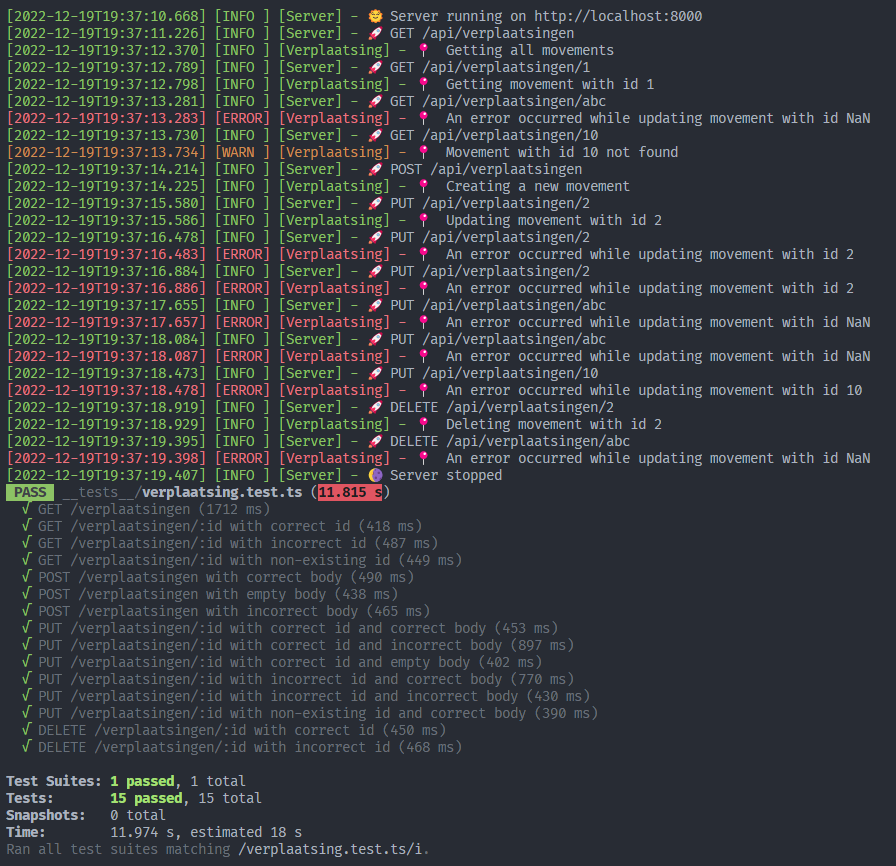
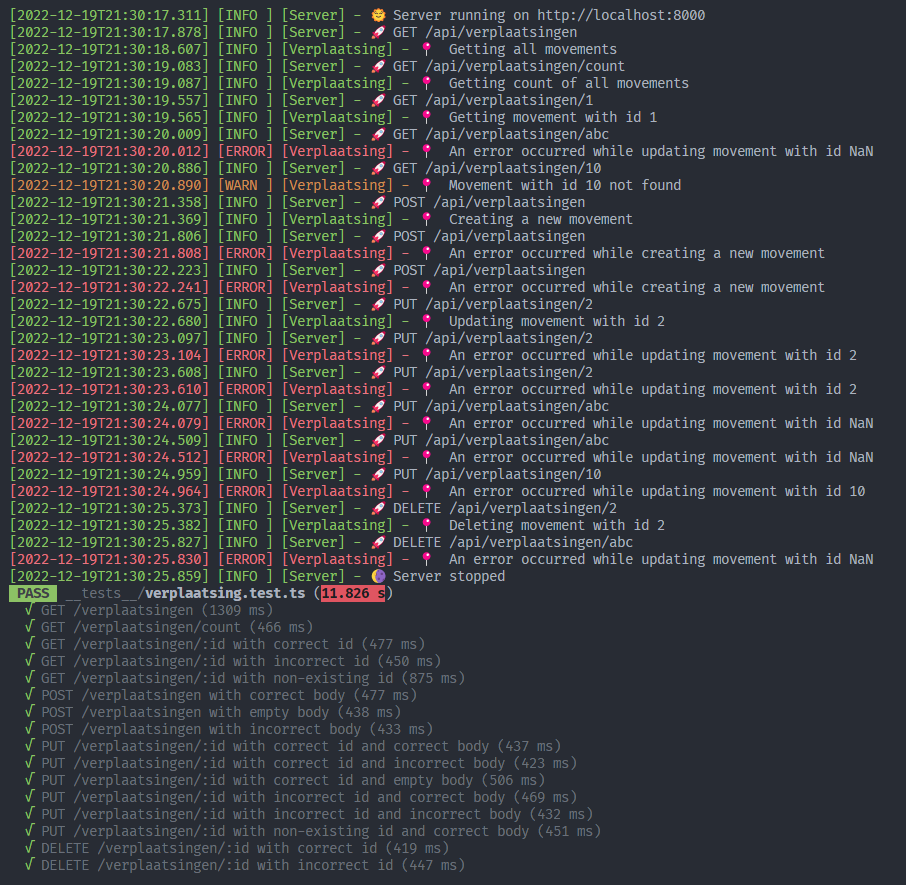
test /count for all tables

Changed region(s): [[0.0, 0.0, 0.9688, 0.9977]]

diff --git a/__tests__/reiziger.test.ts b/__tests__/reiziger.test.ts
@@ -41,6 +41,15 @@ it("GET /reizigers", async () => {
     ]});
 });
 
+it("GET /reizigers/count", async() => {
+  const app = (await server).getApp();
+  const token = await fetchAccessToken();
+
+  const response = await request(app).get("/api/reizigers/count").set("Authorization", `Bearer ${token}`);
+  expect(response.status).toEqual(200);
+  expect(response.body).toEqual("Count of all travellers: 1");
+});
+
 
 it("GET /reizigers/:id with correct id", async () => {
   const app = (await server).getApp();
@@ -67,6 +76,36 @@ it("GET /reizigers/:id with non-existing id", async () => {
   const token = await fetchAccessToken();
 
   const response = await request(app).get("/api/reizigers/10").set("Authorization", `Bearer ${token}`);
+  expect(response.status).toEqual(404);
+  expect(response.body).toEqual("Reiziger niet gevonden");
+});
+
+
+it("GET /reizigers/auth0/:id with correct id", async () => {
+  const app = (await server).getApp();
+  const token = await fetchAccessToken();
+
+  const response = await request(app).get("/api/reizigers/auth0/sJUibowqneIEBIvxyeLQd869uivdTHuP@clients").set("Authorization", `Bearer ${token}`);
+  expect(response.status).toEqual(200);
+  expect(response.body).toEqual([{"auth0id": "sJUibowqneIEBIvxyeLQd869uivdTHuP@clients","geboortedatum": "2003-12-15","huisnummer": "5","id": 1,"naam": "De Waegeneer","stad": "Aalst","straat": "Hugo Lefèvrestraat","voornaam": "Robin",}]);
+});
+
+
+it("GET /reizigers/auth0/:id with incorrect id", async () => {
+  const app = (await server).getApp();
+  const token = await fetchAccessToken();
+
+  const response = await request(app).get("/api/reizigers/auth0/abc").set("Authorization", `Bearer ${token}`);
+  expect(response.status).toEqual(400);
+  expect(response.body).toEqual({"errors": [{"location": "params", "msg": "Id must be a string between 5 and 255 characters", "param": "id", "value": "abc",},],});
+});
+
+
+it("GET /reizigers/auth0/:id with non-existing id", async () => {
+  const app = (await server).getApp();
+  const token = await fetchAccessToken();
+
+  const response = await request(app).get("/api/reizigers/auth0/sJUibowqneIEBIvxyeLQd869uivdTHuP@client").set("Authorization", `Bearer ${token}`);
   expect(response.status).toEqual(404);
   expect(response.body).toEqual("Reiziger niet gevonden");
 });

diff --git a/src/rest/bestemming.ts b/src/rest/bestemming.ts
@@ -124,28 +124,27 @@ body("land").isString().isLength({ min: 1, max: 255 }).withMessage("Land must be
 body("stad").isString().isLength({ min: 1, max: 255 }).withMessage("Stad must be between 1 and 255 characters"),
 body("postcode").isString().isLength({ min: 1, max: 10 }).withMessage("Postcode must be between 1 and 10 characters"),
 async (req: Request, res: Response) => {
-    const errors = validationResult(req);
-    if (!errors.isEmpty()) {
+  const errors = validationResult(req);
+  if (!errors.isEmpty()) {
     logger.name = "Bestemming";
     logger.error(`${emoji.get('desert_island')}  An error occured while creating a new destination`);
     logger.name = "Server";
     return res.status(400).json({ errors: errors.array() });
-    }
-    try {
+  }
+  try {
     const bestemming = req.body;
     const newBestemming = await BestemmingService.createBestemming(bestemming);
     logger.name = "Bestemming";
     logger.info(`${emoji.get('desert_island')}  Creating a new destination`);
     logger.name = "Server";
     return res.status(201).json(newBestemming);
-    } catch (error: any) {
+  } catch (error: any) {
     logger.name = "Bestemming";
     logger.error(`${emoji.get('desert_island')}  An error occured while creating a new destination`);
     logger.name = "Server";
     return res.status(500).json(error.message);
-    }
-  }  
-);
+  }
+});
 
 // PUT: update a Bestemming
 // params: land, stad, postcode

diff --git a/src/createServer.ts b/src/createServer.ts
@@ -5,13 +5,12 @@ import emoji from 'node-emoji';
 
 import { $log as logger } from "ts-log-debug";
 
-// import { checkJwtToken, hasPermission } from './core/auth';
 import { ServiceError } from './core/serviceError';
 import { installRoutes } from './rest/index';
+import { reset } from '../prisma/reset';
 
 import config from 'config';
-import { reset } from '../prisma/reset';
-import { seed } from '../prisma/seed';
+
 
 const NODE_ENV = config.get('env');
 
@@ -33,7 +32,7 @@ export default async function createServer() {
 
   app.use(express.json());
  
-  app.use(async(ctx: any, req: any, next: NextFunction) => {
+  app.use(async(ctx: any, _req: any, next: NextFunction) => {
     try {
       next();
 
@@ -77,7 +76,7 @@ export default async function createServer() {
     }
   });
 
-  app.use(async (ctx: any, res: any, next: NextFunction) => {
+  app.use(async (ctx: any, _res: any, next: NextFunction) => {
     logger.info(`${emoji.get('rocket')} ${ctx.method} ${ctx.url}`);
 
     try {
@@ -114,7 +113,7 @@ export default async function createServer() {
     async stop() {
       app.removeAllListeners();
       new Promise<void>((resolve) => {
-        app.listen().close(() => {
+        app.listen(PORT).close(() => {
           logger.info(`${emoji.get("waning_crescent_moon")} Server stopped`);
           resolve();
         });

diff --git a/src/rest/reiziger.ts b/src/rest/reiziger.ts
@@ -17,6 +17,13 @@ reizigerRouter.get('/',
 checkJwt,
 checkScopes,
 async (req: Request, res: Response) => {
+  const errors = validationResult(req);
+  if (!errors.isEmpty()) {
+    logger.name = "Reiziger";
+    logger.error(`${emoji.get('alien')}  An error occurred while getting all travellers`);
+    logger.name = "Server";
+    return res.status(400).json({ errors: errors.array() });
+  }
   try {
     const reizigers = await ReizigerService.getReizigers();
     const count = await ReizigerService.getReizigerCount();
@@ -154,7 +161,6 @@ body("straat").isString().isLength({ min: 1, max: 255 }).withMessage("Straat mus
 body("huisnummer").isString().isLength({ min: 1, max: 10 }).withMessage("Huisnummer must be between 1 and 10 characters"),
 body("auth0id").isString().isLength({ min: 5, max: 255 }).withMessage("Auth0id must be between 5 and 255 characters"),
 async (req: Request, res: Response) => {
-  // const response = hasPermission(ctx, req, res, "write", next);
   const errors = validationResult(req);
   if (!errors.isEmpty()) {
     logger.name = "Reiziger";

diff --git a/__tests__/vervoersmiddel.test.ts b/__tests__/vervoersmiddel.test.ts
@@ -31,6 +31,16 @@ it("GET /vervoersmiddelen", async () => {
 });
 
 
+it("GET /vervoersmiddelen/count", async () => {
+  const app = (await server).getApp();
+  const token = await fetchAccessToken();
+
+  const response = await request(app).get("/api/vervoersmiddelen/count").set('Authorization', `Bearer ${token}`);
+  expect(response.status).toEqual(200);
+  expect(response.body).toEqual("Count of all means of transport: 1");
+});
+
+
 it("GET /vervoersmiddelen/:id with correct id", async () => {
   const app = (await server).getApp();
   const token = await fetchAccessToken();

diff --git a/__tests__/verplaatsing.test.ts b/__tests__/verplaatsing.test.ts
@@ -33,6 +33,16 @@ it("GET /verplaatsingen", async () => {
 });
 
 
+it("GET /verplaatsingen/count", async () => {
+  const app = (await server).getApp();
+  const token = await fetchAccessToken();
+
+  const response = await request(app).get("/api/verplaatsingen/count").set('Authorization', `Bearer ${token}`);
+  expect(response.status).toEqual(200);
+  expect(response.body).toEqual("Count of all movements: 1");
+});
+
+
 it("GET /verplaatsingen/:id with correct id", async () => {
   const app = (await server).getApp();
   const token = await fetchAccessToken();

diff --git a/__tests__/bestemming.test.ts b/__tests__/bestemming.test.ts
@@ -35,6 +35,16 @@ it("GET /bestemmingen", async () => {
 });
 
 
+it("GET /bestemmingen/count", async () => {
+  const app = (await server).getApp();
+  const token = await fetchAccessToken();
+
+  const response = await request(app).get("/api/bestemmingen/count").set("Authorization", `Bearer ${token}`);
+  expect(response.status).toEqual(200);
+  expect(response.body).toEqual("Count of all destinations: 1");
+});
+
+
 it("GET /bestemmingen/:id with correct id", async () => {
   const app = (await server).getApp();
   const token = await fetchAccessToken();

diff --git a/src/index.ts b/src/index.ts
@@ -5,12 +5,9 @@ const prisma = new PrismaClient();
 
 export async function main() {
   try {
-    // const PORT: number = parseInt(process.env.PORT as string, 10);
     const server = await createServer();
     await server.start();
     server.getApp();
-
-    // console.log(`Server started on port ${PORT}`);
     
     await prisma.$connect();
 

diff --git a/prisma/reset.ts b/prisma/reset.ts
@@ -6,7 +6,3 @@ export function reset() {
   Prisma.raw("DROP TABLE bestemming;");
   Prisma.raw("DROP TABLE vervoersmiddel;");
 }
-
-
-//push the prisma db 
-
